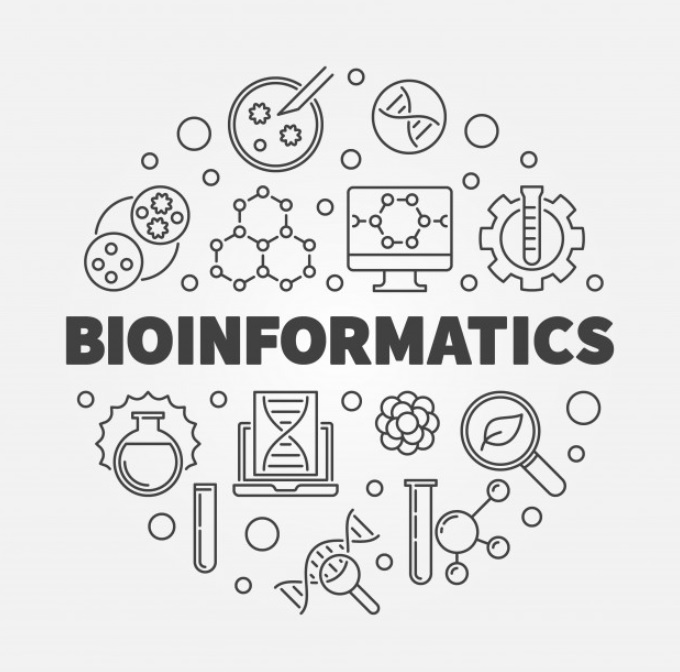
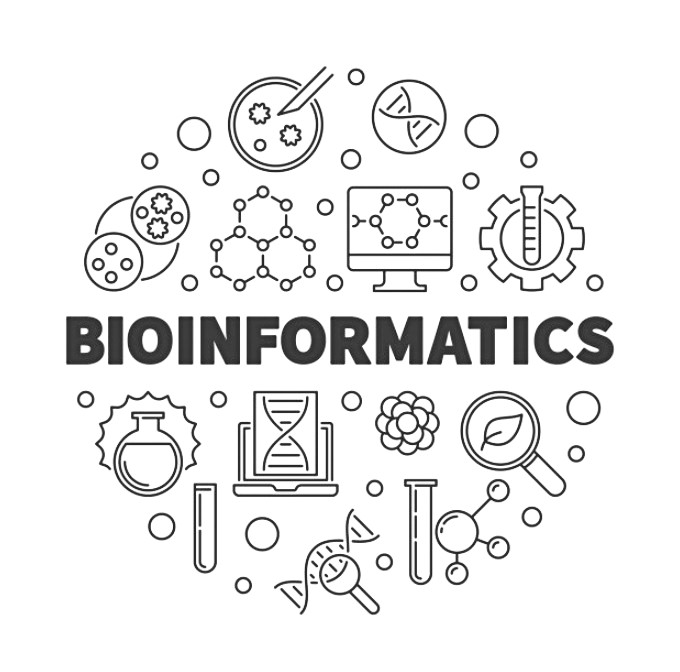
Update main page, navigation, img

diff --git a/_includes/navigation.html b/_includes/navigation.html
@@ -10,6 +10,16 @@
 </ul>
 
 <style>
+	/* Check in web */
+	@font-face {
+		font-family: 'Spoqa Han Sans';
+		font-weight: 700;
+		src: 
+		url('/assets/fonts/SpoqaHanSansRegular.woff2') format('woff2'), 
+		url('/assets/fonts/SpoqaHanSansRegular.woff') format('woff'),
+		url('/assets/fonts/SpoqaHanSansRegular.ttf') format('truetype');
+	}
+
 	.header-panel.shadow-z-2{
 		background-image: linear-gradient(to bottom, #3a4347e1,  #242a2ce1), url("{{ site.baseurl }}/static/img/nav-bg3.jpg");
 		background-size: cover;
@@ -23,13 +33,14 @@
 	
 	.logo-img{
 		transition: 0.5s;
+		image-rendering: -webkit-optimize-contrast;
 	}
 	.logo-img:hover{
 		filter: brightness(65%) contrast(80%) sepia(100%) hue-rotate(180deg);
 		transition: 0.5s;
 	}
 	.links > a{
-		font-family: 'Balsamiq Sans', cursive;
+		font-family: 'Spoqa Han Sans', cursive;
 		font-size:30px;
 		color:white;
 		text-decoration: underline;

diff --git a/index.html b/index.html
@@ -3,6 +3,6 @@ layout: default
 title: BML Lab
 ---
 
-<div class="well" style="background-color: #f1f1f1;">
+<div class="well">
   <img src="/static/img/wallpaper.jpg" alt="main_img" style="margin: auto; border-radius: 10px;">
 </div>
